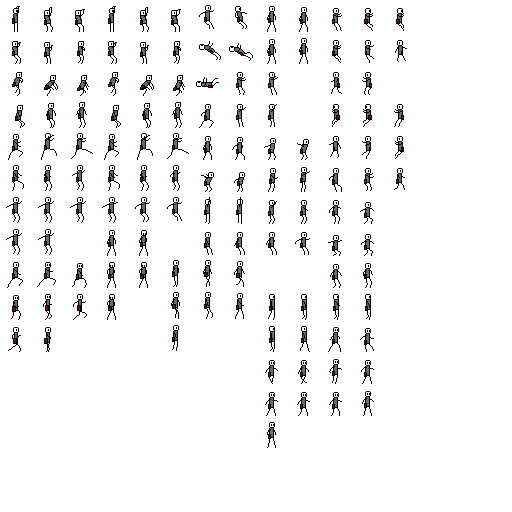
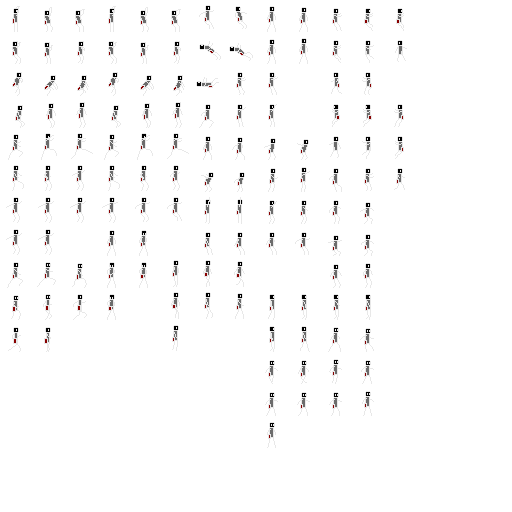
inverted player skin added

diff --git a/Scripts/Scene Parts/SceneManager.cs b/Scripts/Scene Parts/SceneManager.cs
@@ -43,6 +43,7 @@ public class SceneManager : MonoBehaviour
 	
 	public Color obstacleColor;
 	public Color backgroundColor;
+	public bool invertPlayerColor;
 	
 	public AudioClip bgAudio;
 	
@@ -82,6 +83,10 @@ public class SceneManager : MonoBehaviour
 		profileManager.SetNameTextRef(profileText);
 		profileManager.SetPlayerRef(player);
 		profileManager.ResetPlayerSpritesheet();
+		
+		if(invertPlayerColor){
+			player.InvertPlayerOutline();
+		}
 	}
 	
     // Start is called before the first frame update

diff --git a/Scripts/Characters/Player/PlayerHub.cs b/Scripts/Characters/Player/PlayerHub.cs
@@ -46,4 +46,8 @@ public class PlayerHub : MonoBehaviour
 	public void SwitchPlayerSpritesheet(string spritesheetName){
 		reskinner.SetNewSpritesheet(spritesheetName);
 	}
+	
+	public void InvertPlayerOutline(){
+		
+	}
 }
